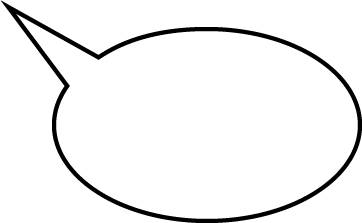
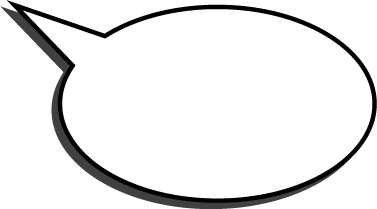
Fix FAQ text, add shadow to speech bubbles

Changed region(s): [[0.0, 0.0, 1.0, 1.0]]

diff --git a/index.html b/index.html
@@ -38,51 +38,51 @@
     <section id="faq" class="container">
       <img id="faq-header" src="images/faq.png">
       <div class="row">
-        <div class="col-lg-4 faq-question">
+        <div class="col-md-6 faq-question">
           <div id="question-1" class="question-img">
             <div class="question-text offset-y-m14 offset-x-4">
               WHAT IS A HACKATHON?
             </div>
           </div>
           <div id="answer-1" class="answer-img">
-            <div class="answer-text width-70 offset-x-m3 offset-y-m3">
+            <div class="answer-text width-50 offset-x-m3 offset-y-m3">
               Hackathons are awesome events full of creativity, technology and passionate tech-related students
               collaborating and creating. Attendees work in teams to create apps, games, robots… literally anything you
               want to build & learn about!
             </div>
           </div>
         </div>
-        <div class="col-lg-4 faq-question">
+        <div class="col-md-6 faq-question">
           <div id="question-7" class="question-img">
-            <div class="question-text offset-x-7">
+            <div class="question-text offset-x-6">
               HOW MUCH DOES
             </div>
-            <div class="question-text offset-x-7">
+            <div class="question-text offset-x-6">
               IT COST?
             </div>
           </div>
           <div id="answer-7" class="answer-img">
-            <div class="answer-text width-70 offset-x-m4">
+            <div class="answer-text width-50 offset-x-m4">
               StudentHack is free for all accepted hackers. We will provide you WiFi, meals, drinks, sleeping rooms,
               swag,
               workshops, great atmosphere and… FUN!
             </div>
           </div>
         </div>
-        <div class="col-lg-4 faq-question">
+        <div class="col-md-6 faq-question">
           <div id="question-6" class="question-img">
             <div class="question-text offset-y-m14 offset-x-4">I DON'T KNOW HOW TO CODE.</div>
             <div class="question-text offset-y-m14 offset-x-4">CAN I STILL COME?</div>
           </div>
           <div id="answer-6" class="answer-img">
-            <div class="answer-text width-70 offset-x-m6">
+            <div class="answer-text width-50 offset-x-m6">
               Hackathons are for beginners. Networking with and seeing awesome hackers in action will expose you to a
               tremendous amount of knowledge. There is an amazing suit of industry experts and mentors that are happy to
               assist you!
             </div>
           </div>
         </div>
-        <div class="col-lg-4 faq-question">
+        <div class="col-md-6 faq-question">
           <div id="question-4" class="question-img">
             <div class="question-text offset-x-m6">
               WHAT IF I DON'T
@@ -92,14 +92,14 @@
             </div>
           </div>
           <div id="answer-4" class="answer-img">
-            <div class="answer-text width-70 offset-x-8 offset-y-3 offset-y-0-xs">
+            <div class="answer-text width-50 offset-x-8 offset-y-3 offset-y-0-xs">
               No need to worry! Part of the fun at the hackathon is meeting new people. We will organise a team-building
               session, where you will meet other participants just like you. We ask for the teams to be of 4 people
               maximum.
             </div>
           </div>
         </div>
-        <div class="col-lg-4 faq-question">
+        <div class="col-md-6 faq-question">
           <div id="question-5" class="question-img">
             <div class="question-text  offset-x-m7">
               WHAT SHOULD
@@ -109,26 +109,26 @@
             </div>
           </div>
           <div id="answer-5" class="answer-img">
-            <div class="answer-text width-70 offset-x-m4">
+            <div class="answer-text width-50 offset-x-m4">
               All attendees must bring a valid ID for admission. Other common checklist items include laptops, chargers,
               sleeping bags and toiletries, spare clothes, adapters, and sleeping bags.
             </div>
           </div>
         </div>
-        <div class="col-lg-4 faq-question">
+        <div class="col-md-6 faq-question">
           <div id="question-3" class="question-img">
             <div class="question-text offset-y-m3 offset-x-m3">
               WHO CAN APPLY?
             </div>
           </div>
           <div id="answer-3" class="answer-img">
-            <div class="answer-text width-70 offset-y-8 offset-y-5-s offset-x-7">
+            <div class="answer-text width-50 offset-y-8 offset-y-5-s offset-x-7">
               We accept students who are over 18 and are currently studying or have graduated less than 1 year ago. You
               can also join us as a mentor or volunteer! Contact us for more info.
             </div>
           </div>
         </div>
-        <div class="col-lg-4 faq-question">
+        <div class="col-md-6 faq-question">
           <div id="question-5" class="question-img">
             <div class="question-text offset-x-m7">
               DO YOU OFFER TRAVEL
@@ -138,12 +138,12 @@
             </div>
           </div>
           <div id="answer-2" class="answer-img">
-            <div class="answer-text width-50 offset-x-m7 width-20-s">
+            <div class="answer-text width-40 offset-x-m4">
               Unfortunately, we cannot reimburse you for your travel expenses.
             </div>
           </div>
         </div>
-        <div class="col-lg-4 faq-question">
+        <div class="col-md-6 faq-question">
           <div id="question-8" class="question-img">
             <div class="question-text offset-x-m6">
               WHO OWNS MY IP RIGHTS,
@@ -153,13 +153,13 @@
             </div>
           </div>
           <div id="answer-8" class="answer-img">
-            <div class="answer-text width-70 offset-x-m7">
+            <div class="answer-text width-50 offset-x-m7">
               You own all the rights to your intellectual property. We won’t claim any right over anything made during
               this event.
             </div>
           </div>
         </div>
-        <div class="col-lg-4 faq-question">
+        <div class="col-md-6 mx-auto faq-question">
           <div id="question-9" class="question-img">
             <div class="question-text offset-x-m6">
               WHAT CAN I EXPECT FROM
@@ -169,7 +169,7 @@
             </div>
           </div>
           <div id="answer-9" class="answer-img">
-            <div class="answer-text width-70 offset-y-5 offset-x-6">
+            <div class="answer-text width-50 offset-x-6">
               An entire weekend of great company, good food and plenty of swag! We’ll also have hardware and tons of
               mentors.
             </div>

diff --git a/styles.css b/styles.css
@@ -64,6 +64,7 @@ canvas {
   align-items: center;
   width: 100%;
   height: 15%;
+  transform: rotate(-5deg);
   -webkit-transform: rotate(-5deg);
   -moz-transform: rotate(-5deg);
   -ms-transform: rotate(-5deg);
@@ -121,6 +122,10 @@ canvas {
 .answer-text {
   position: relative;
   font-size: 0.7vw;
+}
+
+.width-40 {
+  width: 40%;
 }
 
 .width-50 {
@@ -240,7 +245,6 @@ canvas {
 #answer-3 {
   background: url("images/faq/answer3.png") no-repeat center;
   background-size: contain;
-  top: -10%;
   height: 80%;
 }
 
@@ -248,8 +252,8 @@ canvas {
   background: url("images/faq/question4.png") no-repeat center;
   background-size: contain;
   height: 35%;
-  left: 15%;
   width: 110%;
+  top: -3%
 }
 
 #answer-4 {
@@ -310,7 +314,6 @@ canvas {
 #answer-8 {
   background: url("images/faq/answer2.png") no-repeat center;
   background-size: contain;
-  top: -5%;
   height: 80%;
 }
 
@@ -320,21 +323,22 @@ canvas {
   height: 35%;
   width: 80%;
   left: 15%;
+  top: 4%;
 }
 
 #answer-9 {
   background: url("images/faq/answer3.png") no-repeat center;
   background-size: contain;
-  top: -10%;
   height: 80%;
 }
 
-@media only screen and (max-width: 1440px) {
+
+@media only screen and (min-width: 1024px) {
   .question-text {
     font-size: 1vw;
   }
   .answer-text {
-    font-size: 0.8vw;
+    font-size: 0.8rem;
   }
 }
 
@@ -381,7 +385,7 @@ canvas {
     font-size: 2vw;
   }
   .answer-text {
-    font-size: 1.8vw;
+    font-size: 1.5vw;
   }
   .title-container {
     font-size: 5.7vw;
